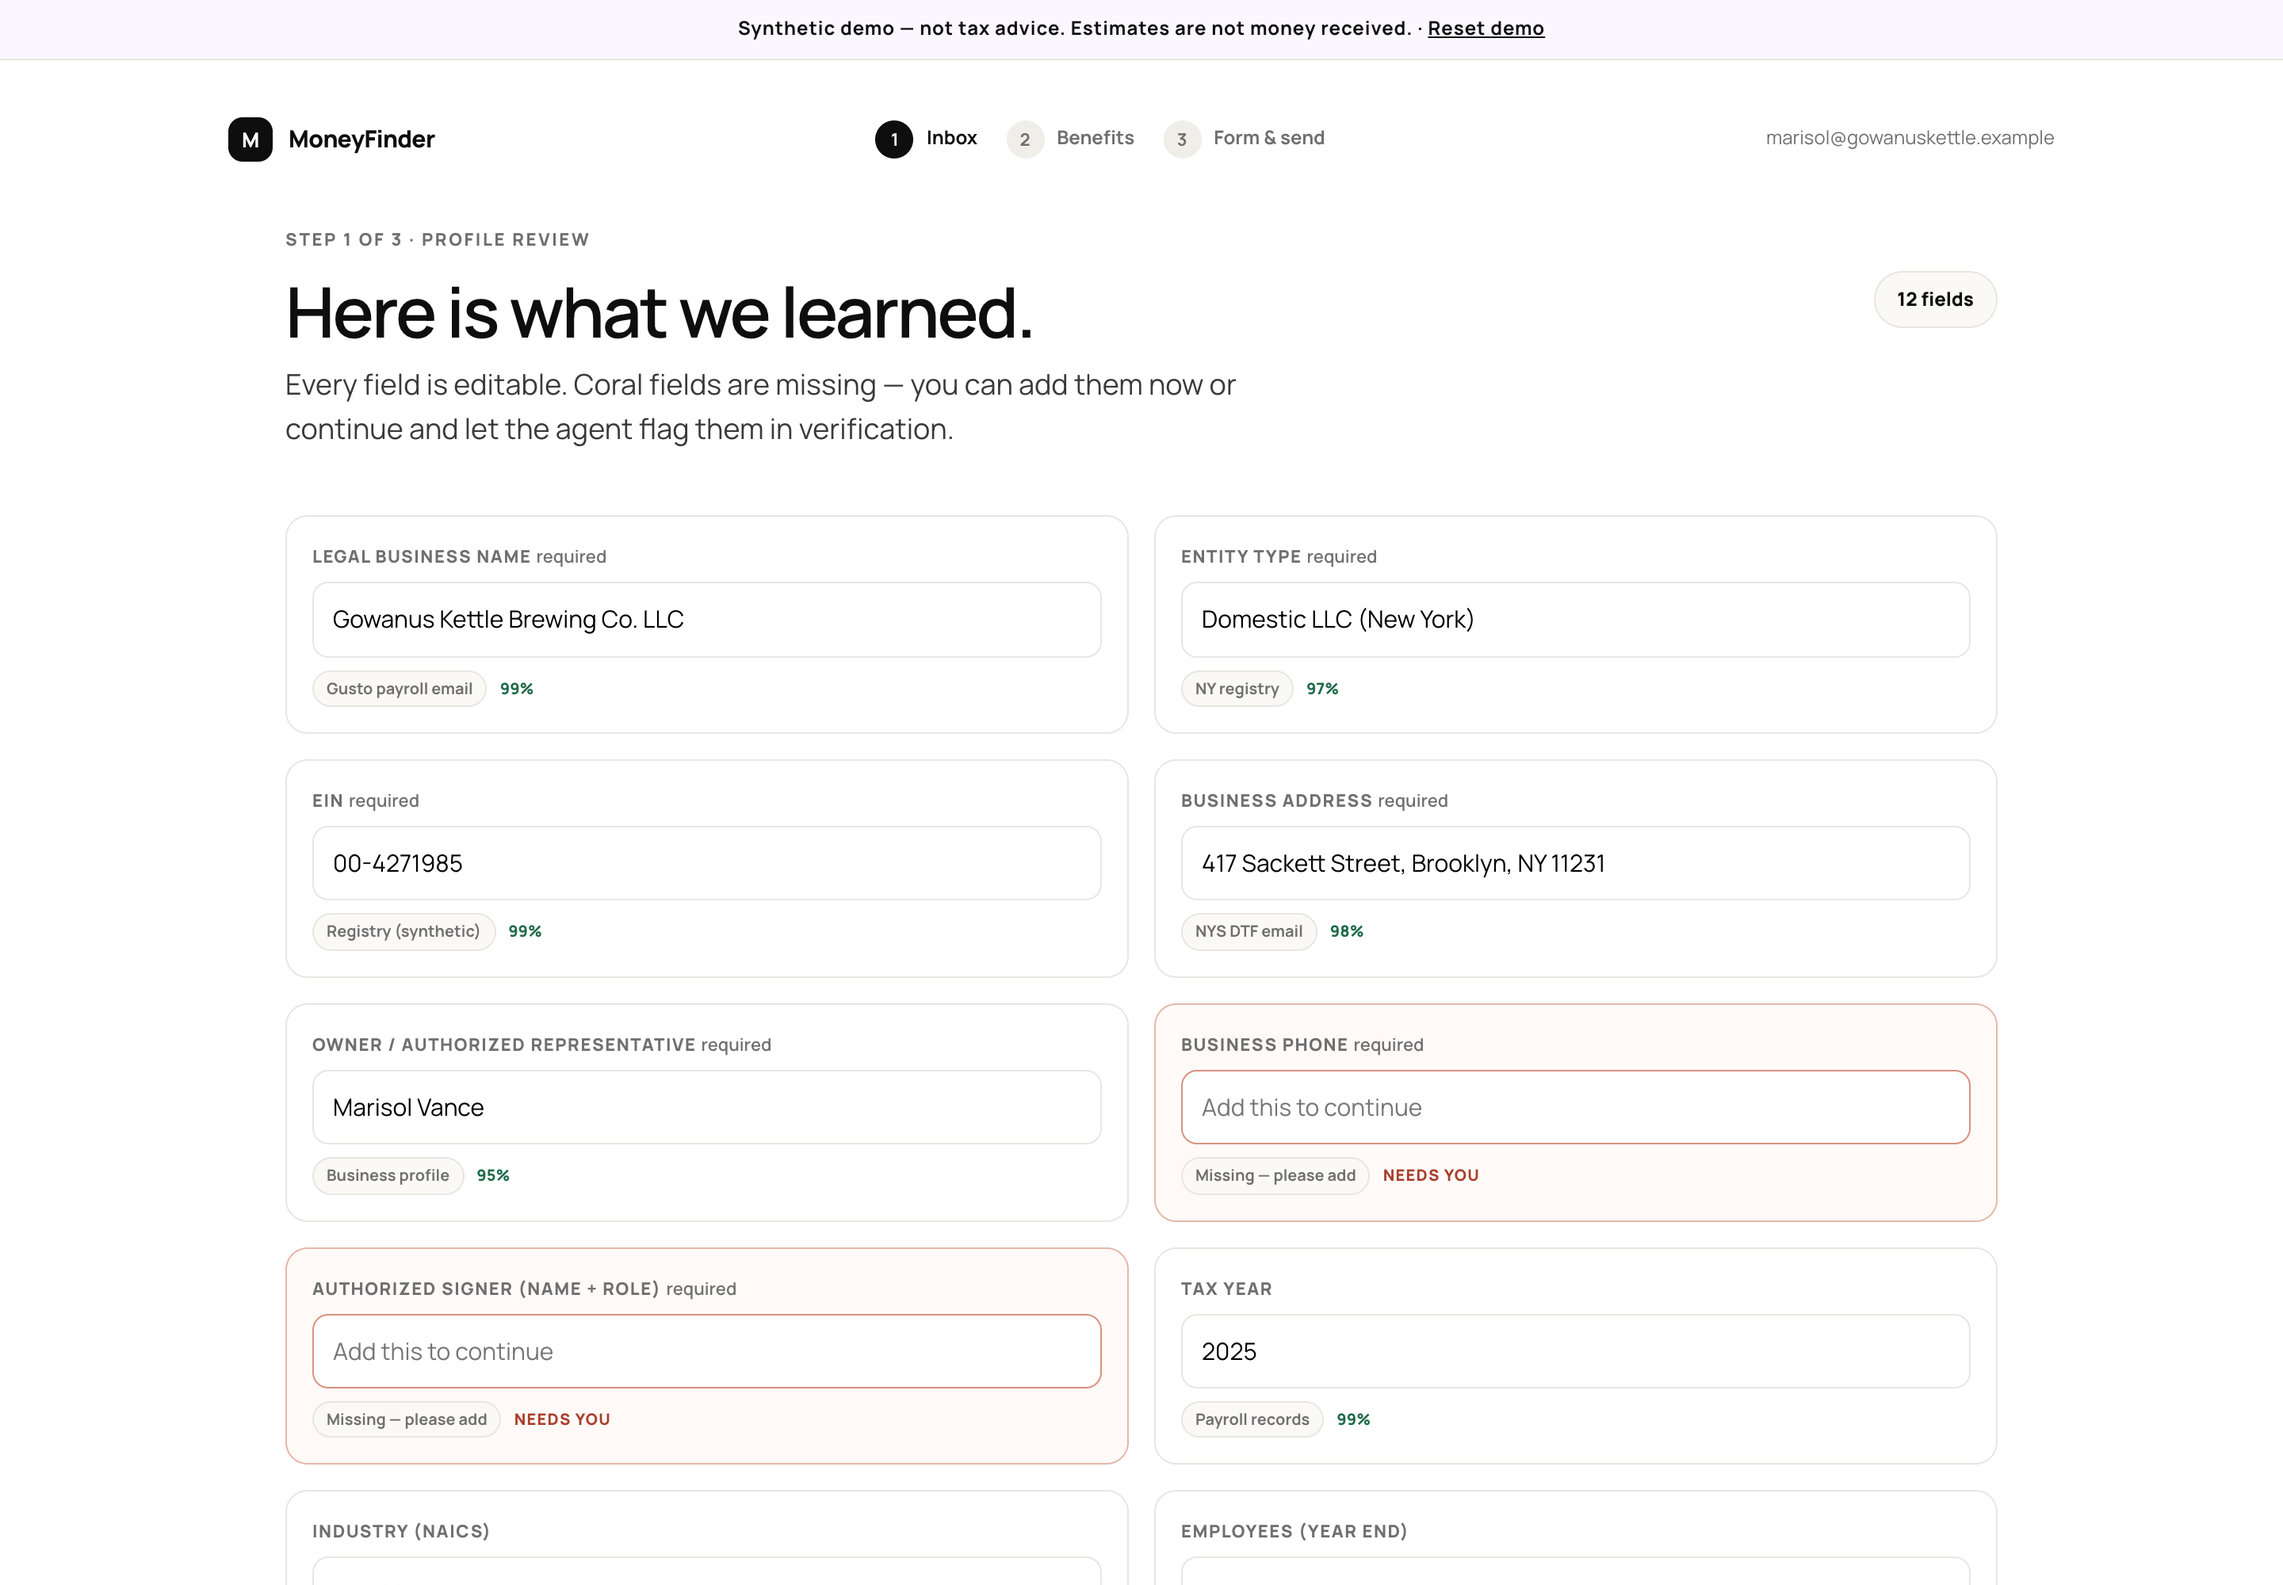
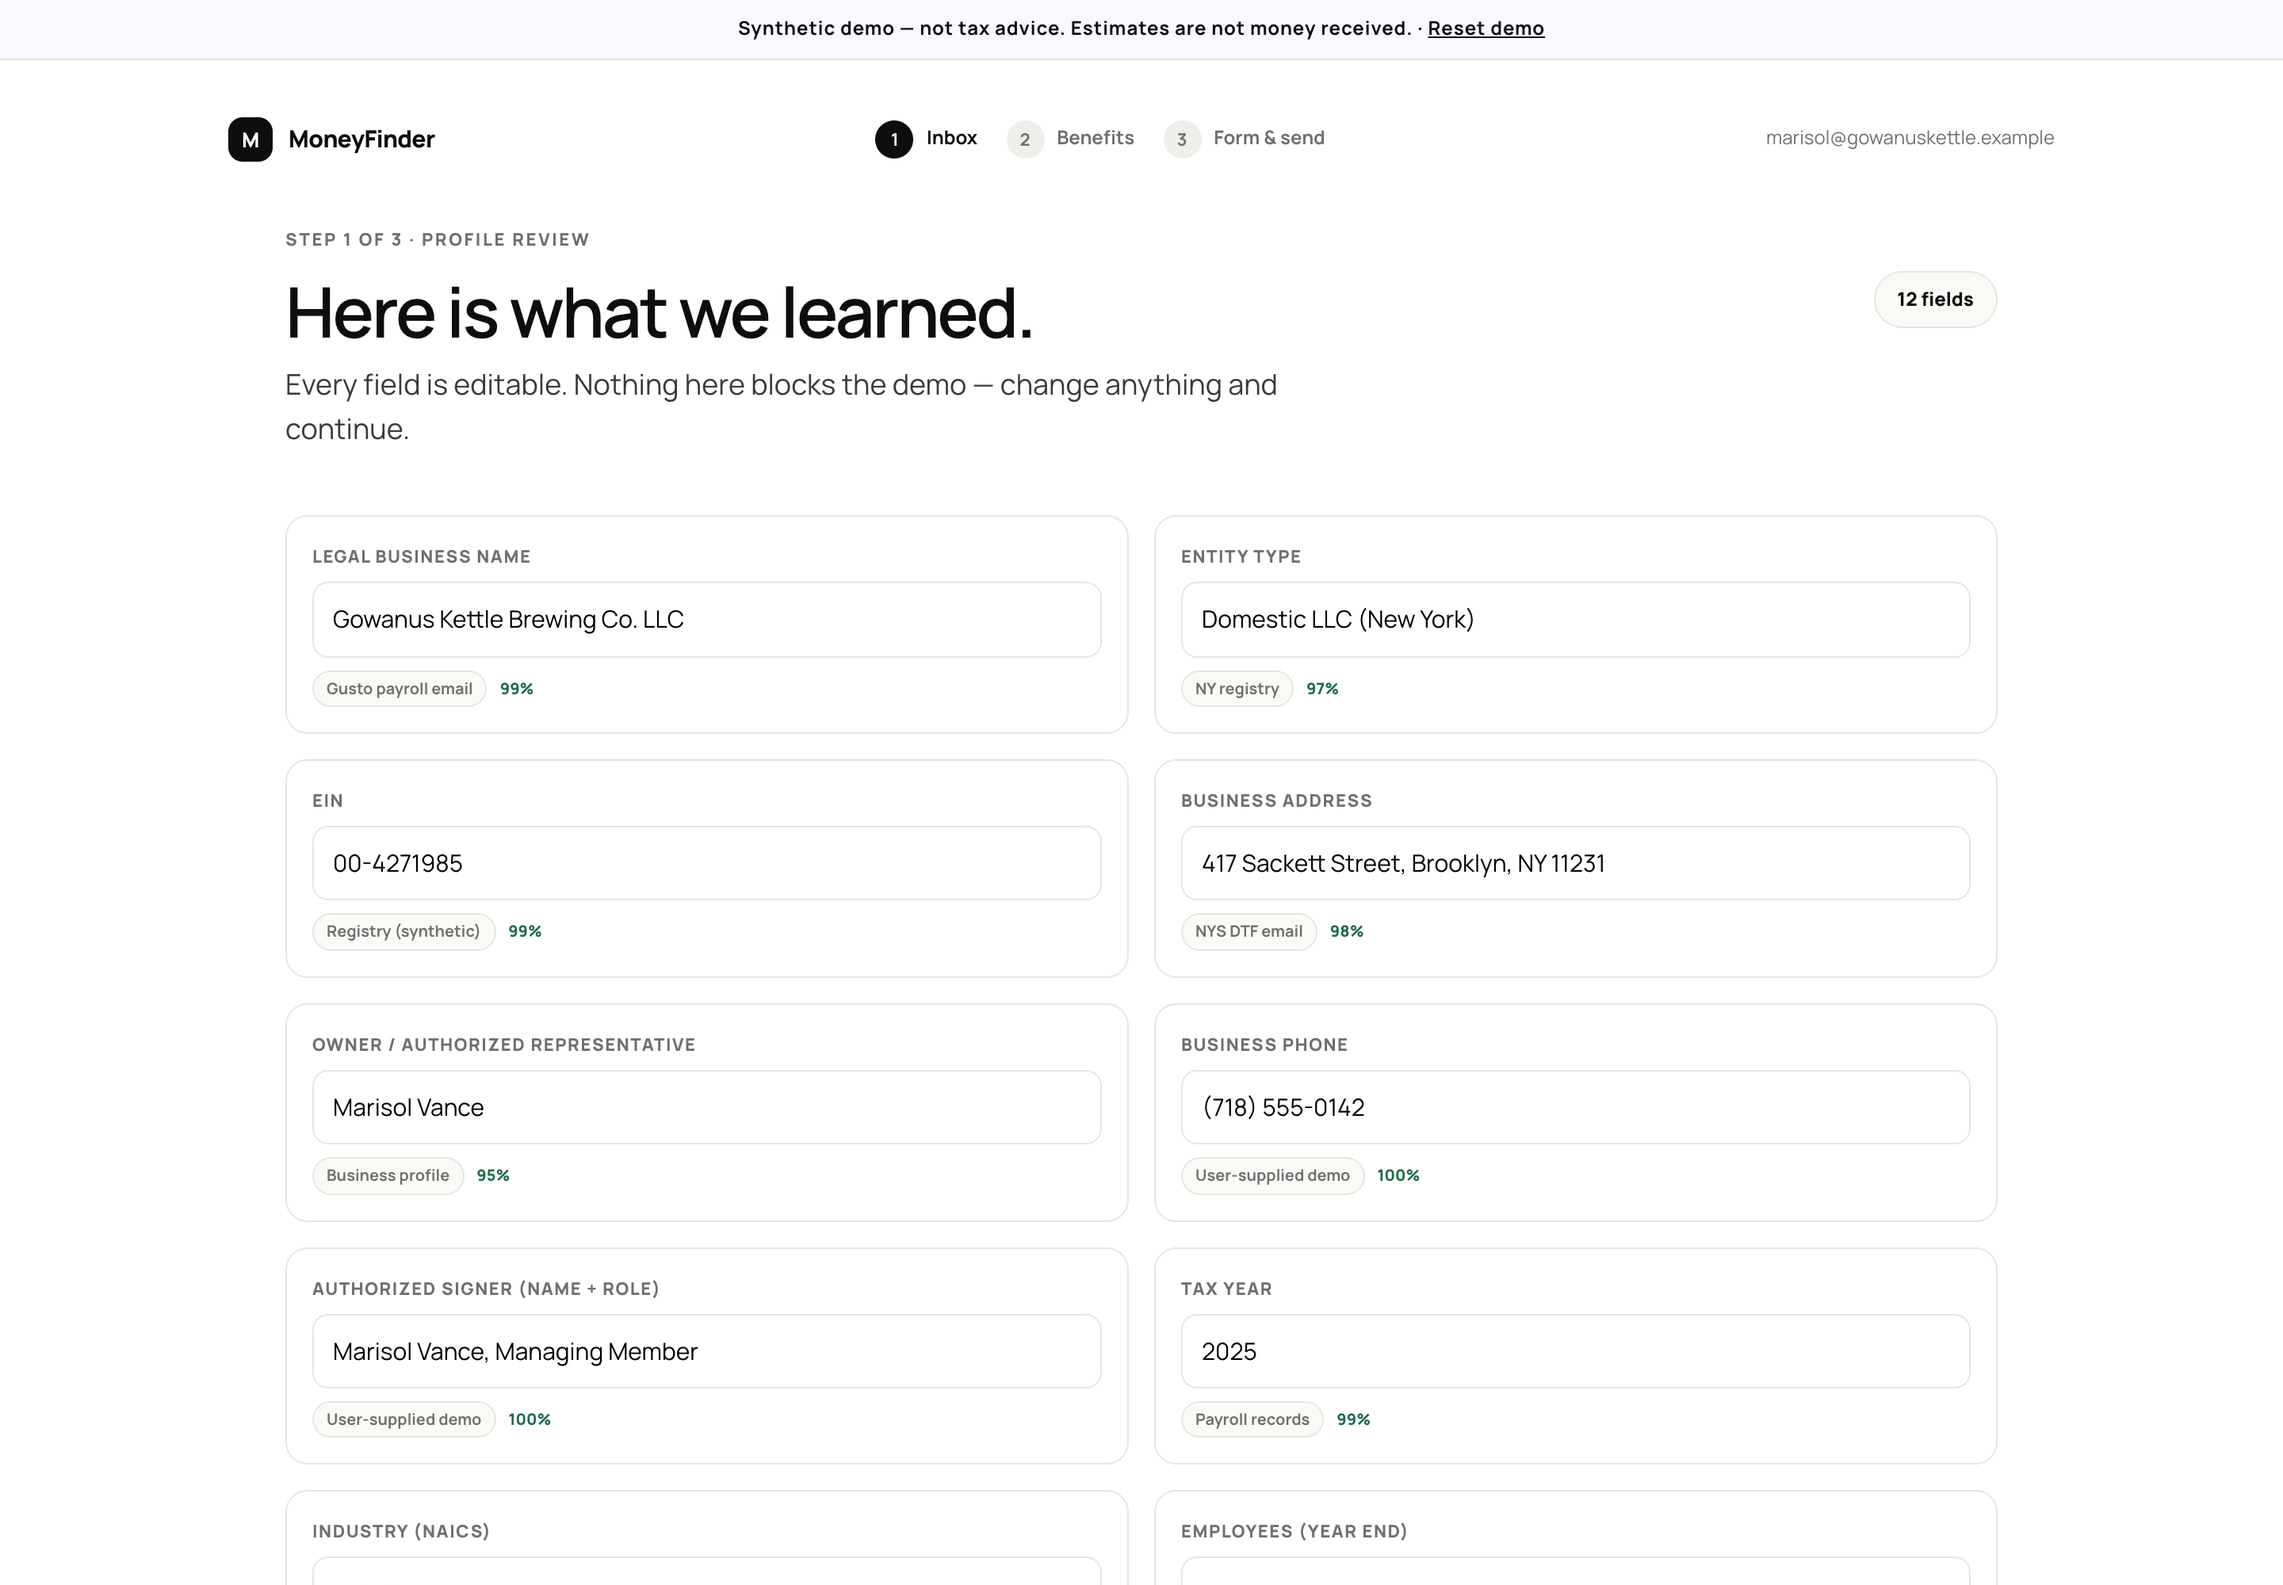
feat(onboarding): make profile fields optional in demo (no required gate)

diff --git a/app/templates/profile_review.html b/app/templates/profile_review.html
@@ -17,7 +17,7 @@
     <div class="panel-title-row">
       <div>
         <h1>Here is what we learned.</h1>
-        <p class="lede">Every field is editable. Coral fields are missing — you can add them now or continue and let the agent flag them in verification.</p>
+        <p class="lede">Every field is editable. Nothing here blocks the demo — change anything and continue.</p>
       </div>
       <span class="count-pill">{{ fields|length }} fields</span>
     </div>
@@ -28,13 +28,12 @@
     <form method="post" action="{{ url_for('flow.profile_save') }}" class="profile-form">
       <div class="field-grid">
         {% for f in fields %}
-        <div class="profile-field {{ 'is-missing' if f.key in missing_keys else '' }}">
-          <label for="field_{{ f.key }}">{{ f.label }}{% if f.required %} <span class="req">required</span>{% endif %}</label>
+        <div class="profile-field">
+          <label for="field_{{ f.key }}">{{ f.label }}</label>
           <input id="field_{{ f.key }}" name="field_{{ f.key }}" value="{{ f.value }}" placeholder="{{ 'Add this to continue' if f.key in missing_keys else '' }}">
           <div class="field-meta">
             <span class="source-chip">{{ f.source }}</span>
             {% if f.confidence %}<span class="conf">{{ "%.0f"|format(f.confidence*100) }}%</span>{% endif %}
-            {% if f.key in missing_keys %}<span class="needs">needs you</span>{% endif %}
           </div>
         </div>
         {% endfor %}

diff --git a/tests/test_app.py b/tests/test_app.py
@@ -80,7 +80,8 @@ def test_profile_api_and_required_fields(client):
     data = client.get("/api/onboarding/profile").get_json()
     assert len(data["fields"]) == 12
     missing = {f["key"] for f in data["missing_required"]}
-    assert missing == {"phone", "authorized_rep"}
+    assert missing == set()
+    assert all(f["required"] is False for f in data["fields"])
 
 
 def test_profile_allows_missing_fields_then_goes_to_verification(client, app):

diff --git a/docs/EPIC_UI_FLOW.md b/docs/EPIC_UI_FLOW.md
@@ -55,7 +55,7 @@
 | 2 | **Sign in** | demo email field, continue, “no password — synthetic demo” | default, error |
 | 3 | **Gmail consent** | read-only scope, what is read/never written, synthetic mailbox, revoke note | default, previously authorized |
 | 4 | **Profile loading** | spinner + agent step log (scan, facts, conflicts, purchases) | loading, error |
-| 5 | **Profile review** | editable fields, source + confidence per field, required-field markers, coral missing fields | default, validation error |
+| 5 | **Profile review** | editable fields, source + confidence per field; no blocking required fields in the demo | default |
 | 6 | **Benefit search loading** | spinner + “searching official agency pages” log | loading, empty, error |
 | 7 | **Benefit cards** | name, agency, description, “why this fits you”, estimated amount, fit score, source link, select | cards, empty |
 | 8 | **Benefit detail / form** | official form name + preview, filled fields with source/confidence, missing flags, approval checkbox, Send | default, validation error, submitting |
@@ -70,7 +70,7 @@
 - **No real filing.** “Send” writes a mock submission event; no agency is contacted. Copy says “mock submission”.
 - **No invented eligibility.** Cards come from the curated fixture with source excerpts; fit score is a demo heuristic, labeled as such.
 - **Human approval is required** before “Send”.
-- **Required fields block progress.** Missing required fields are coral; the Continue button stays disabled until filled.
+- **Profile fields never block the demo.** Every field is optional; the agent flags gaps later in verification.
 - **Every filled form field shows its source** (profile fact / email / user edit) and a confidence chip.
 - **Demo auth only.** Email sign-in sets a session; no password, no OAuth, no real account. Guarded pages redirect to `/signin`.
 
@@ -109,7 +109,7 @@ PRISM: onboarding emits the same one-session-per-flow trace pattern:
 - [ ] Landing is public; all app pages redirect to `/signin` when signed out.
 - [ ] Sign-in works with the demo email and routes to `/onboarding` (first time) or `/dashboard`.
 - [ ] Consent screen explains scope; authorize starts the loading state; profile appears after.
-- [ ] Profile fields are editable; saving persists; missing required fields are coral and block Continue.
+- [ ] Profile fields are editable; saving persists; Continue works regardless of blanks.
 - [ ] Benefit search shows ≥4 cards with name, description, why-fit, amount, fit score, source.
 - [ ] Selecting a card opens the form; fields show source/confidence; missing fields flagged.
 - [ ] Send is blocked until approval; submit creates a `SUBMITTED` application with a progress card.
@@ -138,14 +138,14 @@ PRISM: onboarding emits the same one-session-per-flow trace pattern:
 ## 9. Estimate
 
 **8 points** · O=6h, M=9h, P=14h → `E≈9.8h`, σ≈1.3h. Factor 1.2 h/pt (new UI surfaces, reusable scaffold).
-Cut line: landing/auth → consent → profile → cards → form → progress. Never cut: required-field gate, approval checkbox, progress card, dashboard reflection.
+Cut line: landing/auth → consent → profile → cards → form → progress. Never cut: profile review, approval checkbox, progress card, dashboard reflection.
 
 ## 10. Tasks
 
 - [ ] Landing + public nav + CTA
 - [ ] Demo auth (`/signin`, session, guard, signout)
 - [ ] Onboarding state in `store` + `fixtures/onboarding.json`
-- [ ] Phase 1: consent → loading → editable profile → required-field validation
+- [ ] Phase 1: consent → crawl → editable profile (no blocking validation)
 - [ ] Phase 2: search loading → benefit cards
 - [ ] Phase 3: form preview + filled fields + approval + submit
 - [ ] Progress card + dashboard reflection

diff --git a/docs/CONTRACT.md b/docs/CONTRACT.md
@@ -111,7 +111,7 @@ Demo auth is session-based; no password/OAuth. Guarded pages redirect to `/signi
 | GET | `/onboarding` | routes to current phase |
 | GET/POST | `/onboarding/connect` | consent + start phase 1 |
 | GET | `/onboarding/profile-loading` | spinner shell (calls profile API) |
-| GET/POST | `/onboarding/profile` | editable profile; required fields gate |
+| GET/POST | `/onboarding/profile` | editable profile; all fields optional in demo |
 | GET | `/onboarding/searching` | spinner shell (calls benefits API) |
 | GET | `/onboarding/benefits` | benefit cards |
 | GET | `/onboarding/benefits/<id>` | form preview + approval |
@@ -124,4 +124,4 @@ Demo auth is session-based; no password/OAuth. Guarded pages redirect to `/signi
 
 **State:** `store.onboarding` — `gmail_connected`, `profile_saved`, `benefits_ready`, `selected_benefit`, `application_id`, `fields`. Reset with `/api/demo/reset`.
 
-**Rules:** required fields (legal name, EIN, address, owner, phone, authorized signer) block Continue; missing fields are coral; approval checkbox is required before submit; submit is mock-only.
+**Rules:** all profile fields are optional in the demo and never block Continue; the approval checkbox is required before submit; submit is mock-only.
